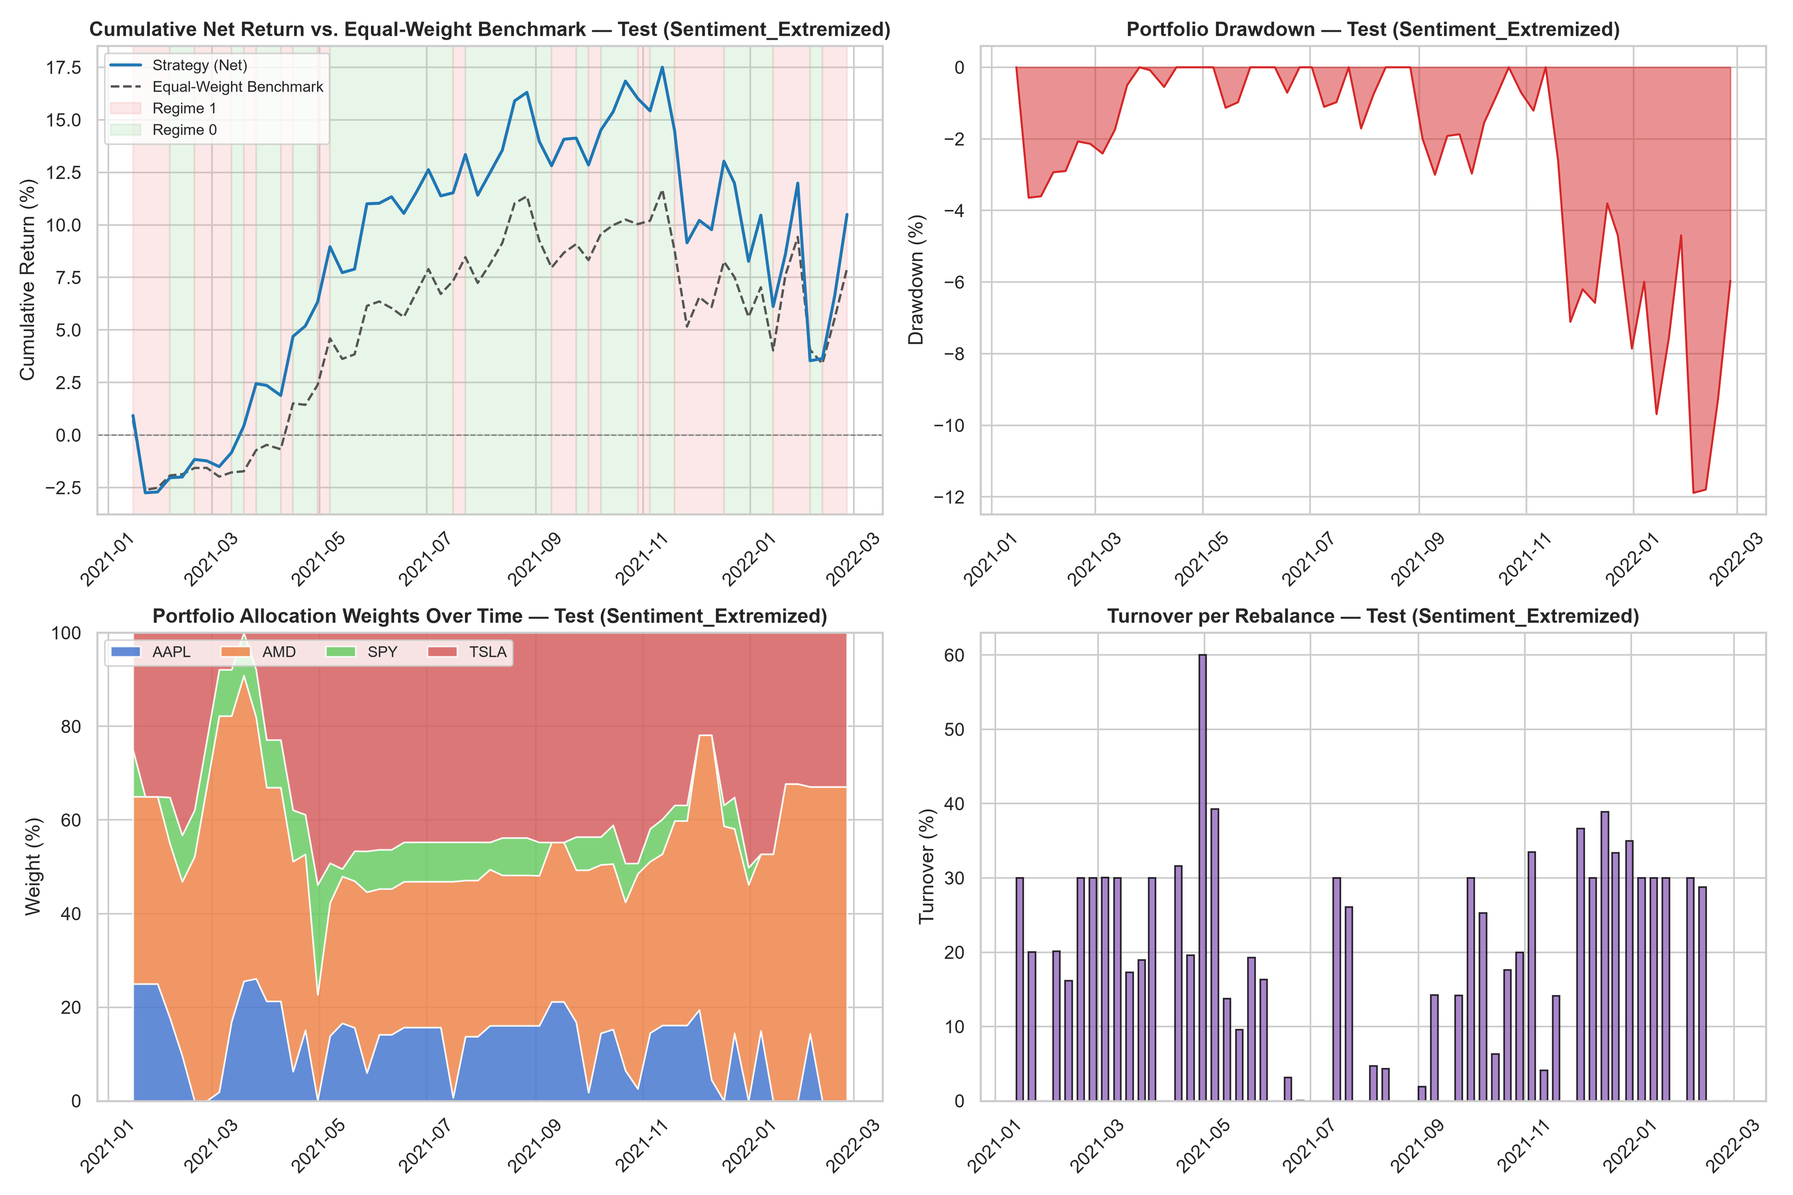
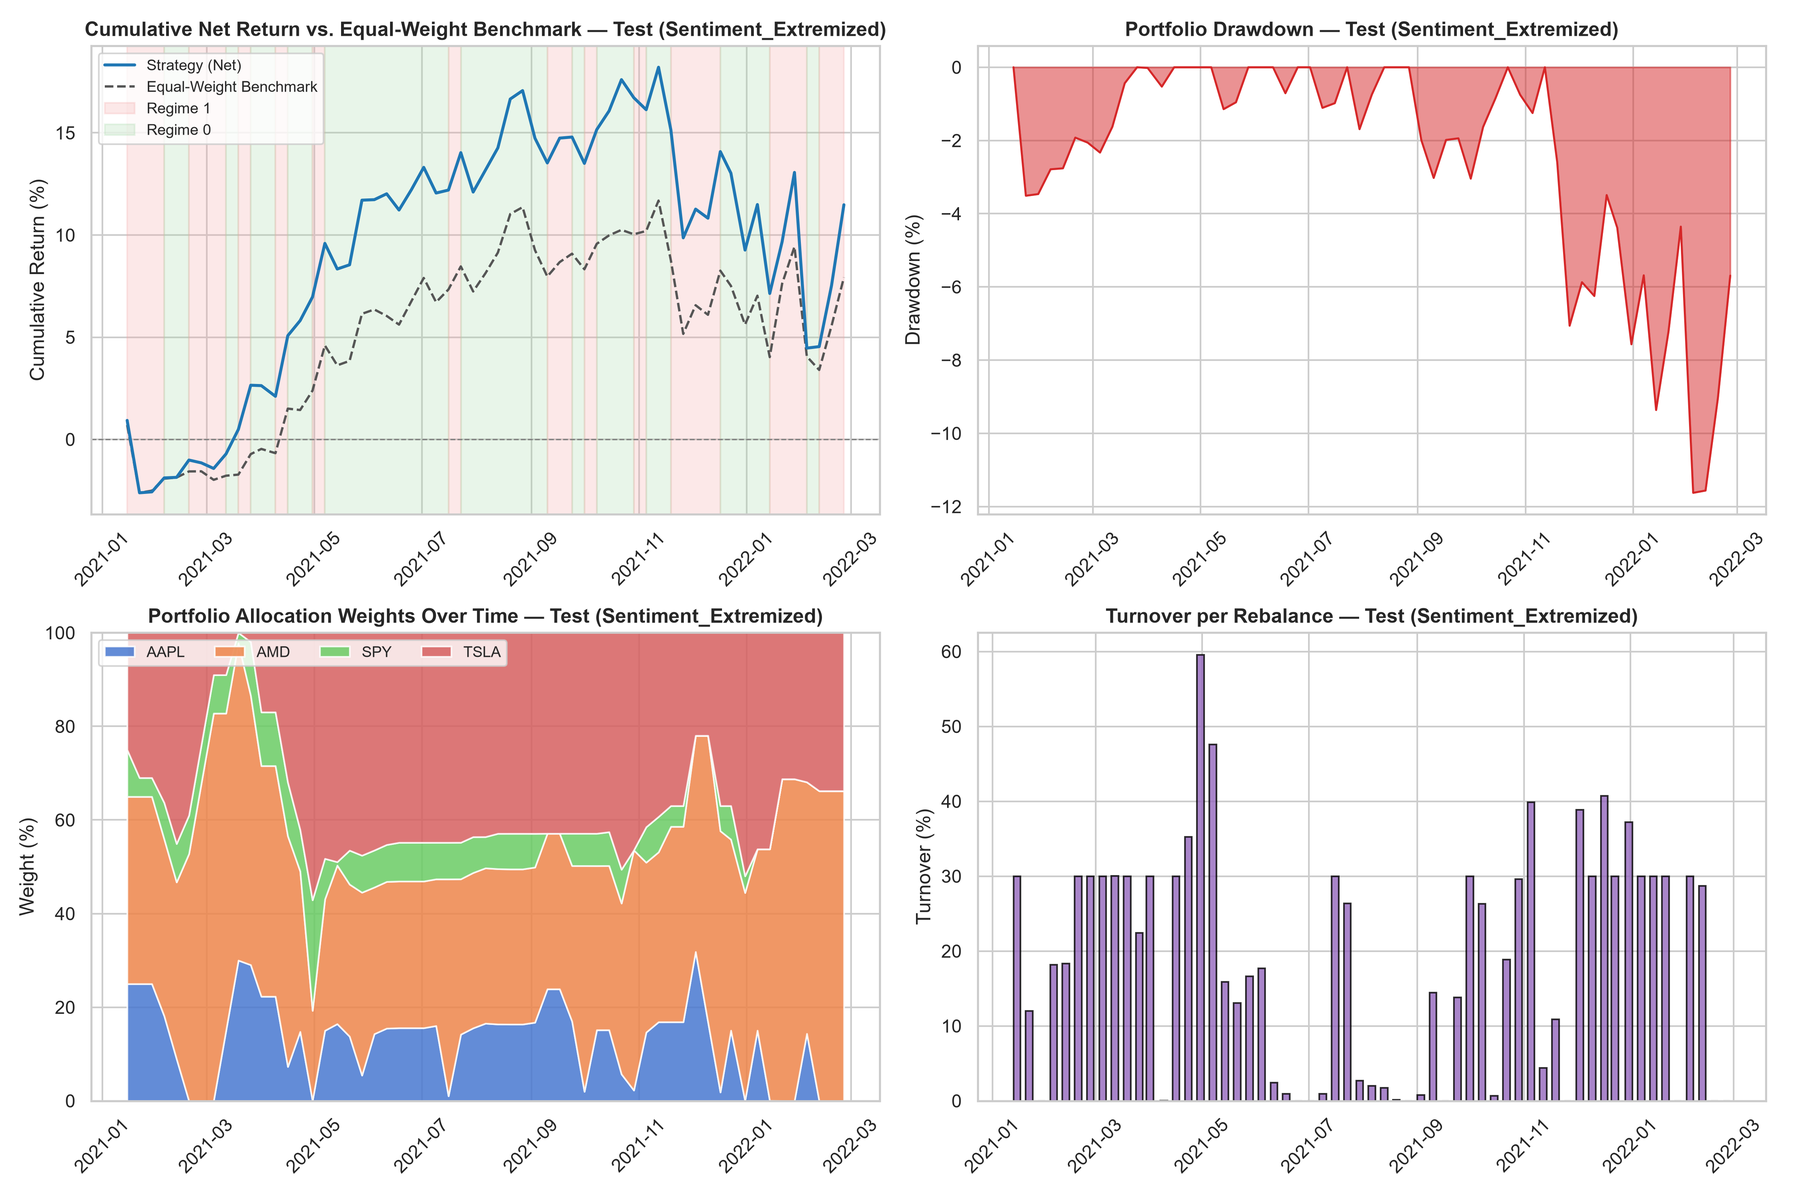
ANOVA Implementation

diff --git a/src/backtester.py b/src/backtester.py
@@ -1,4 +1,3 @@
-# backtester.py
 import os
 import sys
 import numpy as np
@@ -8,21 +7,12 @@ import matplotlib.dates as mdates
 import seaborn as sns
 from scipy import stats
 from sklearn.metrics import precision_score, recall_score, f1_score, confusion_matrix
-from utils import load_saved_posterior, generate_bayesian_inputs, optimize_portfolio
+from portfolio_engine import load_saved_posterior, generate_bayesian_inputs, optimize_portfolio
 
-def load_historical_backtest_data(processed_dir, tickers, sentiment_column="Sentiment_Mean"):
+def load_historical_backtest_data(processed_dir, tickers):
     """
     Dynamically loads and combines individual ticker CSVs containing regime alignments.
     Now accepts a dynamic 'tickers' list to prevent asset mismatch issues.
-
-    sentiment_column : if set to anything other than the default
-        'Sentiment_Mean' (e.g. 'Sentiment_Extremized'), asserts that column
-        is actually present in every loaded {ticker}_with_regimes.csv file.
-        That column only exists if regime_pipeline.py's
-        merge_skill_extremized_signal() step ran (i.e. skill_weighting.py's
-        Stage 1.5 output existed) before those CSVs were generated -- this
-        check turns a silent KeyError deep inside generate_bayesian_inputs()
-        later in the run into a clear, immediate error here instead.
     """
     print("[DATA] Ingesting and compiling per-ticker regime datasets...")
     
@@ -40,17 +30,6 @@ def load_historical_backtest_data(processed_dir, tickers, sentiment_column="Sent
             
         # Read individual asset frame
         df_ticker = pd.read_csv(file_path)
-
-        if sentiment_column not in df_ticker.columns:
-            raise KeyError(
-                f"'{sentiment_column}' not found in {file_path}. Available columns: "
-                f"{df_ticker.columns.tolist()}.\n"
-                f"If you requested sentiment_column='Sentiment_Extremized', make sure "
-                f"skill_weighting.py (Stage 1.5) was run for '{ticker}' AND "
-                f"regime_pipeline.py's merge_skill_extremized_signal() step ran "
-                f"BEFORE this {file_name} was generated -- otherwise the column "
-                f"was never merged into the panel in the first place."
-            )
         
         # Inject the Ticker identifier so the cross-sectional indexer can find it
         df_ticker['Ticker'] = ticker
@@ -154,7 +133,7 @@ def plot_backtest_results(df_results, tickers, output_path, title_suffix=""):
 def run_segment_backtest(master_df, tickers, base_dir, reports_dir,
                           segment_label, segment_start, segment_end,
                           turnover_penalty, max_weight_change,
-                          sentiment_column="Sentiment_Mean"):
+                          sentiment_column="Sentiment_Mean", output_suffix=""):
     """
     Runs the weekly walk-forward backtest restricted to a single date segment
     (e.g. 'Validation' or 'Test'). This is the same per-period mechanics as
@@ -167,11 +146,13 @@ def run_segment_backtest(master_df, tickers, base_dir, reports_dir,
     each segment is evaluated independently rather than as one continuous
     portfolio path spanning the train/validation/test boundary.
 
-    sentiment_column : which directional sentiment feature/posterior
-        ablation to use ('Sentiment_Mean' or 'Sentiment_Extremized'). Must
-        match a posterior that regime_models.py actually produced (via its
-        own --sentiment-column= flag) and a column present in master_df
-        (see load_historical_backtest_data()'s sentiment_column check).
+    sentiment_column / output_suffix : must be kept in sync with each other
+        and with whichever posterior regime_models.py produced --
+        output_suffix selects which regime_{n}_posterior{suffix}.nc file to
+        load (see load_saved_posterior), and sentiment_column selects which
+        panel column feeds the loaded posterior's coefficients (see
+        generate_bayesian_inputs). Mismatching the two silently combines
+        features and coefficients from two different models.
 
     Returns df_results (or None if the segment produced no records).
     """
@@ -268,7 +249,7 @@ def run_segment_backtest(master_df, tickers, base_dir, reports_dir,
             forward_returns = period_df['log_ret'].values  # Fallback for terminal calculation
 
         try:
-            idata = load_saved_posterior(base_dir, predicted_regime, sentiment_column=sentiment_column)
+            idata = load_saved_posterior(base_dir, predicted_regime, suffix=output_suffix)
             mu_b, sigma_b = generate_bayesian_inputs(idata, real_features, tickers, sentiment_column=sentiment_column)
             mu_b_flat = mu_b.flatten()
 
@@ -307,11 +288,7 @@ def run_segment_backtest(master_df, tickers, base_dir, reports_dir,
             print(f"[{segment_label}] {date_str} | Regime: {predicted_regime} | Net Return: {net_p_return:.4f}")
 
         except FileNotFoundError:
-            print(f"Missing trace file for Regime {predicted_regime} (sentiment_column={sentiment_column}). "
-                  f"Run regime_models.py with the matching --sentiment-column= flag first.")
-            return None
-        except KeyError as e:
-            print(f"Feature/column mismatch on {date_str}: {e}")
+            print(f"Missing trace file for Regime {predicted_regime}. Run training loop first.")
             return None
         except Exception as e:
             skip_reasons['other_error'] += 1
@@ -339,8 +316,7 @@ def run_segment_backtest(master_df, tickers, base_dir, reports_dir,
     benchmark_sharpe = (df_results['Benchmark_Return'].mean() / (df_results['Benchmark_Return'].std() + 1e-8)) * np.sqrt(52)
 
     print("\n" + "="*50)
-    print(f"SWING-TRADE STRATEGY PERFORMANCE REPORT — {segment_label.upper()} ({segment_start} to {segment_end}) "
-          f"[sentiment_column={sentiment_column}]")
+    print(f"SWING-TRADE STRATEGY PERFORMANCE REPORT — {segment_label.upper()} ({segment_start} to {segment_end}) [sentiment_column={sentiment_column}]")
     print("="*50)
     print(f"{'Metric':<28}{'Strategy':>12}{'Equal-Wt Benchmark':>22}")
     print(f"{'Total Cumulative Return':<28}{total_return*100:>11.2f}%{benchmark_total_return*100:>21.2f}%")
@@ -417,27 +393,24 @@ def run_segment_backtest(master_df, tickers, base_dir, reports_dir,
     print(f"Verdict: {verdict}")
     print("-"*50)
 
-    # Suffix the chart filename so a Sentiment_Extremized run never silently
-    # overwrites the Sentiment_Mean dashboard for the same segment -- same
-    # naming convention as OUTPUT_SUFFIX in regime_models.py.
-    chart_suffix = "" if sentiment_column == "Sentiment_Mean" else f"_{sentiment_column.lower()}"
-    chart_path = os.path.join(reports_dir, f"backtest_results_dashboard_{segment_label.lower()}{chart_suffix}.png")
-    plot_backtest_results(df_results, tickers, chart_path, title_suffix=f" — {segment_label} ({sentiment_column})")
+    chart_path = os.path.join(reports_dir, f"backtest_results_dashboard_{segment_label.lower()}{output_suffix}.png")
+    plot_backtest_results(df_results, tickers, chart_path, title_suffix=f" — {segment_label}")
 
     return df_results
 
 
 def run_rolling_backtest():
-    # --sentiment-column=Sentiment_Extremized runs the full validation+test
-    # backtest against the skill-weighted + ANOVA-extremized ablation
-    # posteriors instead of the default naive Sentiment_Mean ones. Must
-    # match a run that regime_models.py already completed (same flag) and
-    # a column present in the *_with_regimes.csv panels (same flag passed
-    # through regime_pipeline.py's upstream merge step).
+    # --sentiment-column=Sentiment_Extremized runs the backtest using the
+    # skill-weighted + ANOVA-extremized + causally-lagged signal instead of
+    # the original naive Sentiment_Mean. Loads the matching-suffixed
+    # posterior (see regime_models.py's OUTPUT_SUFFIX) and writes dashboards
+    # under matching filenames, so neither run overwrites the other.
     SENTIMENT_COLUMN = "Sentiment_Mean"
     for arg in sys.argv:
         if arg.startswith("--sentiment-column="):
             SENTIMENT_COLUMN = arg.split("=", 1)[1]
+    OUTPUT_SUFFIX = "" if SENTIMENT_COLUMN == "Sentiment_Mean" else f"_{SENTIMENT_COLUMN.lower()}"
+    print(f"[PRE-FLIGHT] Backtest sentiment_column for this run: {SENTIMENT_COLUMN}")
 
     # 1. Structural Path mapping
     SCRIPT_DIR = os.path.dirname(os.path.abspath(__file__))
@@ -475,10 +448,8 @@ def run_rolling_backtest():
     MAX_WEIGHT_CHANGE = 0.15     # Hard cap: no single asset's weight can move
                                   # more than this per rebalance (None disables)
 
-    print(f"[PRE-FLIGHT] Backtest sentiment_column for this run: {SENTIMENT_COLUMN}")
-
     try:
-        master_df = load_historical_backtest_data(PROCESSED_DIR, tickers, sentiment_column=SENTIMENT_COLUMN)
+        master_df = load_historical_backtest_data(PROCESSED_DIR, tickers)
     except Exception as e:
         print(f"Data Load Error: {e}")
         return
@@ -494,7 +465,8 @@ def run_rolling_backtest():
         segment_end=VALIDATION_END,
         turnover_penalty=TURNOVER_PENALTY,
         max_weight_change=MAX_WEIGHT_CHANGE,
-        sentiment_column=SENTIMENT_COLUMN
+        sentiment_column=SENTIMENT_COLUMN,
+        output_suffix=OUTPUT_SUFFIX
     )
 
     # --- Test segment (held out; report once, do not re-tune afterward) -----
@@ -505,13 +477,14 @@ def run_rolling_backtest():
         segment_end=TEST_END,
         turnover_penalty=TURNOVER_PENALTY,
         max_weight_change=MAX_WEIGHT_CHANGE,
-        sentiment_column=SENTIMENT_COLUMN
+        sentiment_column=SENTIMENT_COLUMN,
+        output_suffix=OUTPUT_SUFFIX
     )
 
     print("\n" + "="*50)
     print("RUN COMPLETE")
     print("="*50)
-    print(f"Sentiment column used: {SENTIMENT_COLUMN}")
+    print("Sentiment column used:", SENTIMENT_COLUMN)
     print("Validation segment:", "OK" if validation_results is not None else "NO RECORDS")
     print("Test segment:      ", "OK" if test_results is not None else "NO RECORDS")
     print("Dashboards saved to:", REPORTS_DIR)

diff --git a/src/utils.py b/src/utils.py
@@ -1,4 +1,3 @@
-# utils.py
 import os
 import glob
 import pandas as pd
@@ -347,8 +346,18 @@ def merge_skill_extremized_signal(df_panel, ticker, processed_dir):
     """
     Merges the Stage 1.5 output ({ticker}_skill_extremized.csv, produced by
     skill_weighting.py) into df_panel as a new 'Sentiment_Extremized' column,
-    aligned on date and forward-filled the same way Sentiment_Mean/Variance
-    already are in process_local_chunks().
+    aligned on date, LAGGED BY ONE TRADING DAY (matching the original
+    pipeline's own look-ahead-bias control -- see process_local_chunks(),
+    'Clean merge with 1-day lagged signals (to prevent look-ahead bias)'),
+    then forward-filled the same way Sentiment_Mean/Variance already are.
+
+    Without this shift, Sentiment_Extremized[date t] would be merged
+    directly against log_ret[date t] -- same-day sentiment "predicting"
+    the same-day return it could easily be reacting to, not predicting.
+    Sentiment_Mean is explicitly shifted upstream in process_local_chunks();
+    this must match, or any Table 4.1/4.2-style ablation between the two
+    compares a fair (lagged) predictor against an unfair (contemporaneous)
+    one.
 
     If the file doesn't exist (Stage 1.5 hasn't been run for this ticker),
     prints a warning and returns df_panel unchanged rather than raising --
@@ -365,6 +374,12 @@ def merge_skill_extremized_signal(df_panel, ticker, processed_dir):
     df_skill = pd.read_csv(skill_path, parse_dates=["date"])
     df_skill = df_skill.set_index("date")[["Sentiment_Extremized"]]
     df_skill = df_skill[~df_skill.index.duplicated(keep="last")]
+    df_skill = df_skill.sort_index()
+    # Positional (row) shift by one TRADING day, matching process_local_chunks()'s
+    # df_features.shift(1) exactly -- NOT a calendar-day shift, which would
+    # misalign on weekends (e.g. Friday + 1 calendar day = Saturday, a
+    # non-trading date that wouldn't match the panel's index at all).
+    df_skill["Sentiment_Extremized"] = df_skill["Sentiment_Extremized"].shift(1)
 
     df_out = df_panel.copy()
     df_out = df_out.join(df_skill, how="left")
@@ -448,27 +463,22 @@ def fit_hierarchical_bayes(df_panel, regime_id, draws=2000, tune=1500, sentiment
         
     return trace, universe
 
-def load_saved_posterior(base_dir, regime_id, sentiment_column="Sentiment_Mean"):
+def load_saved_posterior(base_dir, regime_id, suffix=""):
     """
     Ingests NetCDF traces containing full MCMC chains for a target regime.
 
-    sentiment_column : which regime_models.py ablation run to load.
-        'Sentiment_Mean' (the default/original pipeline) maps to no filename
-        suffix; anything else (e.g. 'Sentiment_Extremized') maps to
-        '_<sentiment_column.lower()>', matching OUTPUT_SUFFIX in
-        regime_models.py exactly. Passing a mismatched sentiment_column here
-        vs. what fit_hierarchical_bayes() was actually trained with will
-        silently load the wrong (or a missing) trace, so keep this in sync
-        with whatever --sentiment-column= flag produced the file you want.
+    suffix : matches regime_models.py's OUTPUT_SUFFIX convention -- "" for
+        the default Sentiment_Mean-fitted posterior, or e.g.
+        "_sentiment_extremized" to load the posterior fit with
+        --sentiment-column=Sentiment_Extremized instead. Loading the wrong
+        posterior for a given sentiment_column silently produces a
+        meaningless backtest (features and coefficients from different
+        models), so callers must keep these in sync -- see
+        run_segment_backtest()'s posterior_suffix parameter.
     """
-    suffix = "" if sentiment_column == "Sentiment_Mean" else f"_{sentiment_column.lower()}"
     file_path = os.path.join(base_dir, "data", f"regime_{regime_id}_posterior{suffix}.nc")
     if not os.path.exists(file_path):
-        raise FileNotFoundError(
-            f"No NetCDF trace asset found at {file_path}. If you requested "
-            f"sentiment_column='{sentiment_column}', make sure regime_models.py "
-            f"was run with the matching --sentiment-column= flag first."
-        )
+        raise FileNotFoundError(f"No NetCDF trace asset found at {file_path}")
     return az.from_netcdf(file_path)
 
 def generate_bayesian_inputs(idata, df_features, tickers, sentiment_column="Sentiment_Mean"):
@@ -476,17 +486,11 @@ def generate_bayesian_inputs(idata, df_features, tickers, sentiment_column="Sent
     Extracts posterior parameter arrays, applies feature matrices, 
     and outputs conditional return vectors and covariance structures.
 
-    sentiment_column : which column of df_features holds the directional
-        sentiment predictor to multiply against the posterior's beta_sim
-        coefficients. This MUST match whatever sentiment_column
-        fit_hierarchical_bayes() was trained with for the idata being
-        passed in -- e.g. if idata came from the Sentiment_Extremized
-        ablation run, pass sentiment_column='Sentiment_Extremized' here too,
-        or you'll be multiplying Sentiment_Extremized-fitted coefficients
-        against a naive Sentiment_Mean feature value (or vice versa), which
-        silently produces a meaningless mu_bayesian rather than raising.
-        Sentiment_Variance is always read from its own fixed column
-        regardless of this setting.
+    sentiment_column : which column of df_features to use as the directional
+        sentiment predictor -- must match whatever sentiment_column the
+        posterior in `idata` was actually fit with (see load_saved_posterior's
+        suffix parameter), or the coefficients and features come from two
+        different models and the result is meaningless.
     """
     # Extract structural chain arrays from the posterior trace
     posterior = idata.posterior
@@ -509,13 +513,6 @@ def generate_bayesian_inputs(idata, df_features, tickers, sentiment_column="Sent
     
     n_assets = len(tickers)
     simulated_returns = np.zeros((n_samples, n_assets))
-
-    if sentiment_column not in df_features.columns:
-        raise KeyError(
-            f"'{sentiment_column}' not found in df_features. Available columns: "
-            f"{df_features.columns.tolist()}. This must match the sentiment_column "
-            f"that fit_hierarchical_bayes() was trained with for this idata."
-        )
     
     # Generate predictive return distributions
     for idx, ticker in enumerate(tickers):

diff --git a/src/portfolio_engine.py b/src/portfolio_engine.py
@@ -1,4 +1,3 @@
-# portfolio_engine.py
 import os
 import sys
 import numpy as np
@@ -80,17 +79,15 @@ def plot_efficient_frontier(mu_b, sigma_b, tickers, optimal_weights, output_path
     plt.close()
 
 if __name__ == "__main__":
-    # --sentiment-column=Sentiment_Extremized loads the ablation posterior
-    # trained on the skill-weighted + ANOVA-extremized signal instead of the
-    # default naive Sentiment_Mean. Must match whatever flag value was used
-    # when regime_models.py produced the trace you want to load here --
-    # load_saved_posterior() derives the filename suffix from this same
-    # string, so a mismatch here means "file not found" rather than a wrong
-    # answer, which is the safer failure mode.
+    # --sentiment-column=Sentiment_Extremized loads the matching-suffixed
+    # posterior and reads that column from mock_features instead of
+    # Sentiment_Mean -- see backtester.py / regime_models.py for the same
+    # convention.
     SENTIMENT_COLUMN = "Sentiment_Mean"
     for arg in sys.argv:
         if arg.startswith("--sentiment-column="):
             SENTIMENT_COLUMN = arg.split("=", 1)[1]
+    OUTPUT_SUFFIX = "" if SENTIMENT_COLUMN == "Sentiment_Mean" else f"_{SENTIMENT_COLUMN.lower()}"
 
     # Structural project root directory mapping
     SCRIPT_DIR = os.path.dirname(os.path.abspath(__file__))
@@ -100,8 +97,13 @@ if __name__ == "__main__":
     
     tickers = ["AAPL", "AMD", "SPY", "TSLA"]
     
+    # NOTE: these are illustrative mock values for a standalone single-period
+    # sanity check, not real data -- Sentiment_Extremized here is just a
+    # placeholder in the same [-1, 1]-ish range the real extremized signal
+    # occupies, not pulled from any actual skill_weighting.py output.
     mock_features = pd.DataFrame({
-        SENTIMENT_COLUMN: [0.65, 0.50, 0.55, 0.70],
+        'Sentiment_Mean': [0.65, 0.50, 0.55, 0.70],
+        'Sentiment_Extremized': [0.80, 0.10, 0.35, 0.90],
         'Sentiment_Variance': [2.1, 1.2, 1.5, 3.4]
     }, index=tickers)
     mock_features.index.name = 'ticker'
@@ -111,8 +113,8 @@ if __name__ == "__main__":
     print(f"[ENG] Ingesting Posteriors for Active Regime State: {current_regime} "
           f"(sentiment_column={SENTIMENT_COLUMN})")
     try:
-        # Load serialized posterior NetCDF trace for the requested ablation run
-        idata = load_saved_posterior(BASE_DIR, current_regime, sentiment_column=SENTIMENT_COLUMN)
+        # Load serialized posterior NetCDF trace
+        idata = load_saved_posterior(BASE_DIR, current_regime, suffix=OUTPUT_SUFFIX)
         mu_b, sigma_b = generate_bayesian_inputs(idata, mock_features, tickers, sentiment_column=SENTIMENT_COLUMN)
         
         # SAFE-GUARD: Flatten ONLY the expected return vector mu_b to 1-D (shape: 4,)
@@ -132,22 +134,17 @@ if __name__ == "__main__":
         optimal_weights = optimize_portfolio(mu_b, sigma_b)
         
         print("\n=========================================================")
-        print(f"OPTIMAL ALLOCATION WEIGHTS (BAYESIAN REGIME CONDITIONED, sentiment_column={SENTIMENT_COLUMN})")
+        print("OPTIMAL ALLOCATION WEIGHTS (BAYESIAN REGIME CONDITIONED)")
         print("=========================================================")
         for ticker, weight in zip(tickers, optimal_weights):
             print(f"{ticker}: {weight * 100:.2f}%")
         print("=========================================================")
         
-        # Trigger explicit chart building pipelines. Suffix the filename so a
-        # Sentiment_Extremized run doesn't silently overwrite the
-        # Sentiment_Mean chart for the same regime.
-        chart_suffix = "" if SENTIMENT_COLUMN == "Sentiment_Mean" else f"_{SENTIMENT_COLUMN.lower()}"
-        output_chart_file = os.path.join(REPORTS_DIR, f"regime_{current_regime}_optimization{chart_suffix}.png")
+        # Trigger explicit chart building pipelines
+        output_chart_file = os.path.join(REPORTS_DIR, f"regime_{current_regime}_optimization{OUTPUT_SUFFIX}.png")
         plot_efficient_frontier(mu_b, sigma_b, tickers, optimal_weights, output_chart_file)
         
     except FileNotFoundError as e:
         print(f"\n[ERROR]: Trace target file missing: {e}")
     except ValueError as e:
         print(f"\n[ERROR]: Dimensionality or index mismatch occurred inside optimization block: {e}")
-    except KeyError as e:
-        print(f"\n[ERROR]: Feature/column mismatch occurred inside Bayesian input generation: {e}")
